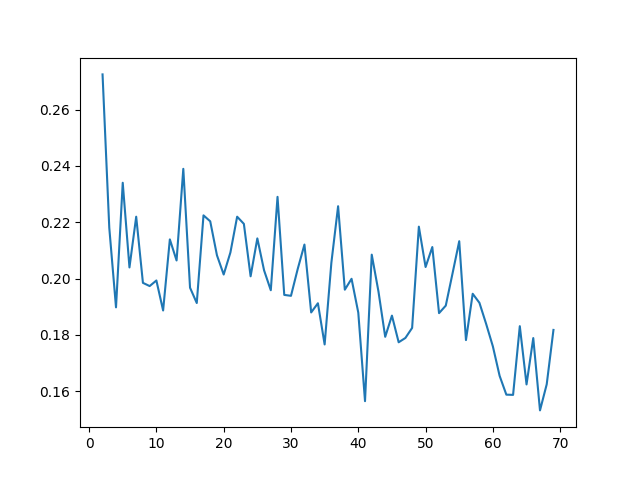
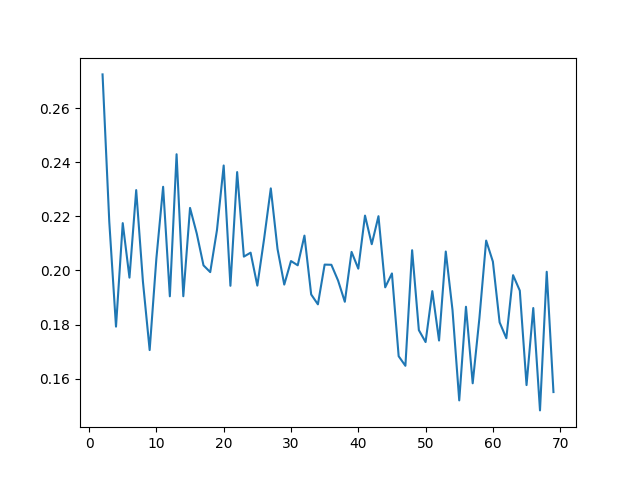
changed

diff --git a/task_4.py b/task_4.py
@@ -18,8 +18,9 @@ def get_variance(data: list):
 	var_data = mean_data2 - mean_data**2
 	return var_data
 
-def evaluate_k_means_with_k_centers(full_data, centers_ind: set)->dict:
+def evaluate_k_means_with_k_centers(full_data, init_method)->dict:
 	indices = []
+	centers_ind = init_method(k, full_data)
 	init_centers = []
 
 	for i in range(len(full_data)):
@@ -44,7 +45,7 @@ def evaluate_k_means_with_k_centers(full_data, centers_ind: set)->dict:
 			else:
 				train_data.append(list_of_data[i])
 
-		clusters = k_means.k_means(init_centers, train_data)
+		clusters = k_means.k_means(k, init_method, train_data)
 		clust_test_ind, y_pred = k_means.get_clusters_and_preds_for_test(test_data, clusters)
 		y_label = [test_data[i][-1] for i in range(test_size)]
 
@@ -61,9 +62,9 @@ def evaluate_k_means_with_k_centers(full_data, centers_ind: set)->dict:
 	return [NMI_sc, ARI_sc, Hom_sc, acc_sc]
 
 def evaluate_init(k: int, full_data: list, method, method_name)->None:
-	metrics = [[],[],[]]
+	metrics = [[],[],[],[]]
 	for _ in range(50):
-		ps_metrics = evaluate_k_means_with_k_centers(full_data, method(k, full_data))
+		ps_metrics = evaluate_k_means_with_k_centers(full_data, method)
 		for i in range(4):
 			metrics[i].append(ps_metrics[i])
 	

diff --git a/k_means.py b/k_means.py
@@ -79,9 +79,9 @@ def heuristic_based_init(k, full_data):
 		for data_id in range(len(full_data)):
 			if data_id in centers:
 				continue
-			min_dis = k_means.get_dist(full_data[c0][:-1], full_data[data_id][:-1])
+			min_dis = get_dist(full_data[c0][:-1], full_data[data_id][:-1])
 			for prev_id in centers:
-				min_dis = min(min_dis, k_means.get_dist(full_data[prev_id][:-1], full_data[data_id][:-1]))
+				min_dis = min(min_dis, get_dist(full_data[prev_id][:-1], full_data[data_id][:-1]))
 			if min_dis >= max_dist:
 				max_dist = min_dis
 				ps_center = data_id
